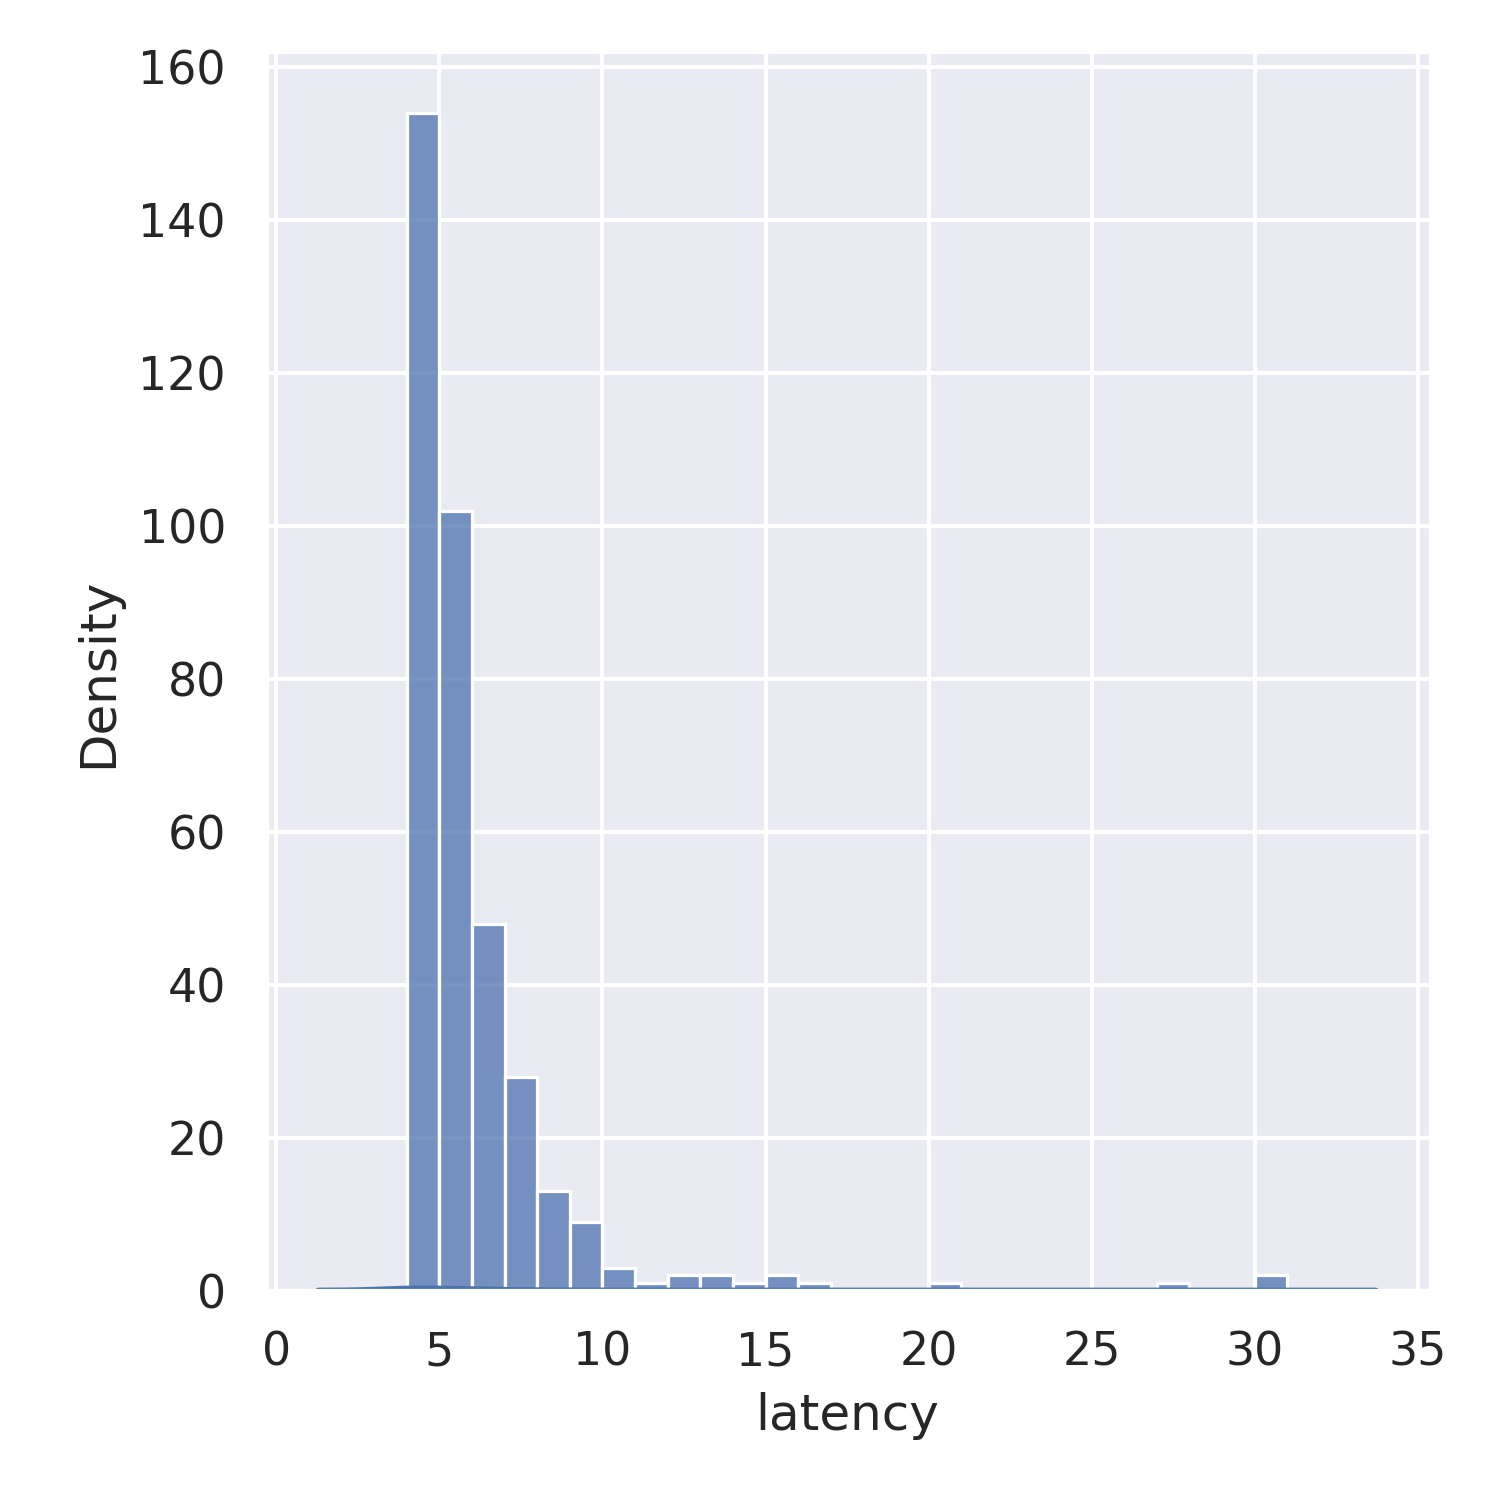
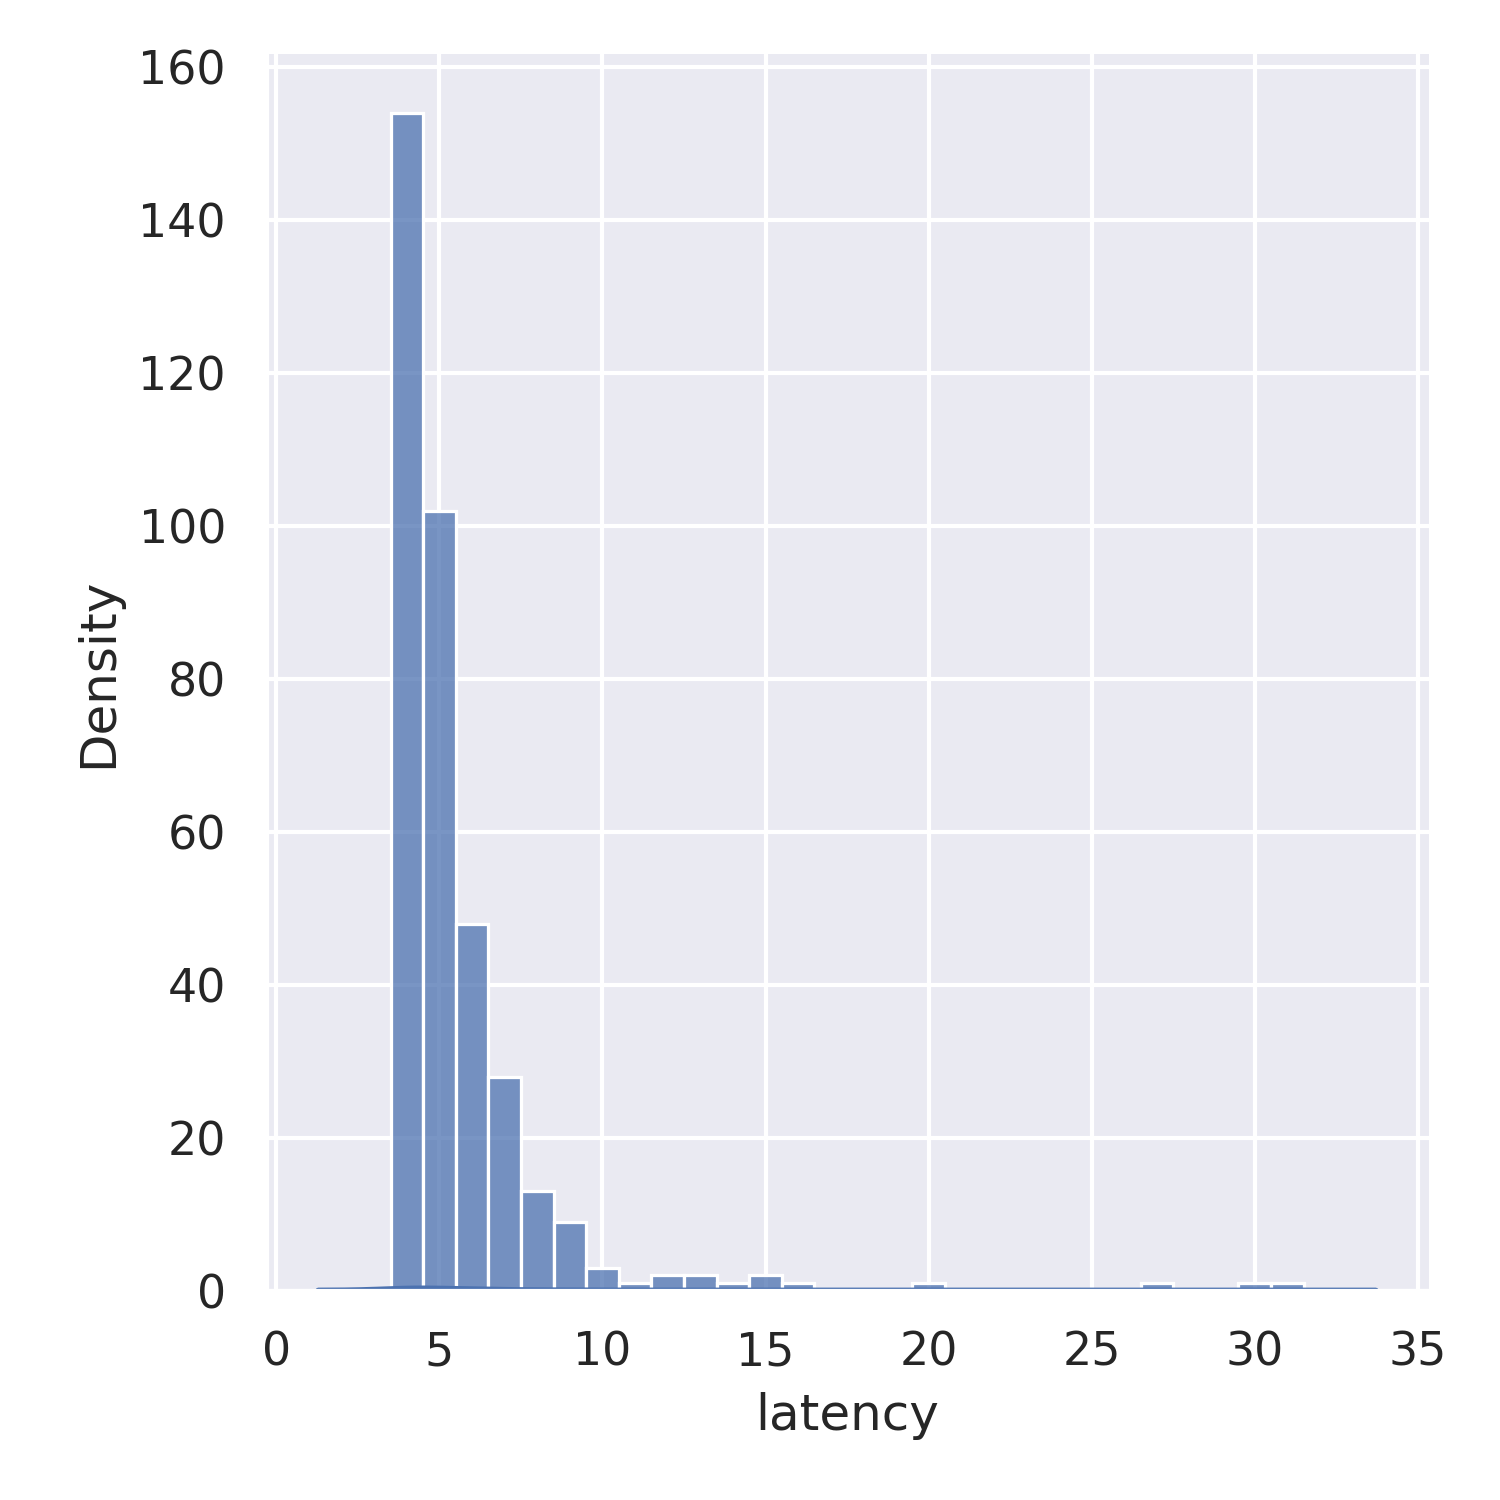
use discrete=True to center data in graphics

Changed region(s): [[0.2453, 0.0613, 0.4293, 0.8587], [0.828, 0.828, 0.8587, 0.8587]]

diff --git a/jupyter_notebook/generate_plots.py b/jupyter_notebook/generate_plots.py
@@ -27,7 +27,7 @@ def gen_plot_for_latency(data_file):
     sns.displot(data=latency_df, x="latency", kind="kde")
     plt.savefig(data_file + "_dist_kde.png", dpi=300)
 
-    sns.histplot(data=latency_df, x="latency", binwidth=1)
+    sns.histplot(data=latency_df, x="latency", discrete=True)
     plt.savefig(data_file + "_hist.png", dpi=300)
 
 
